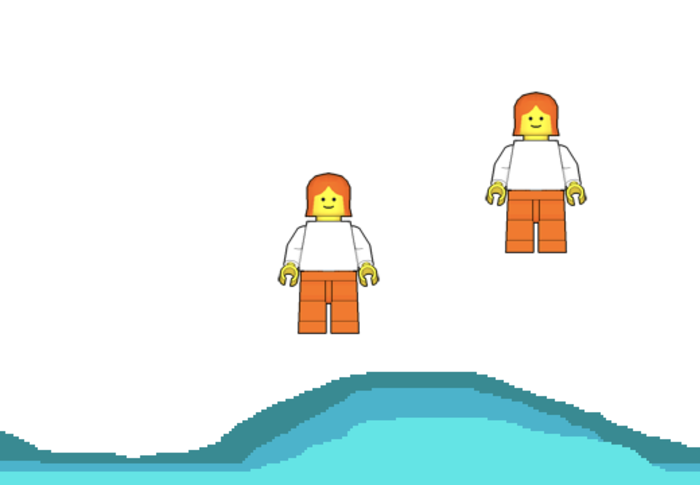
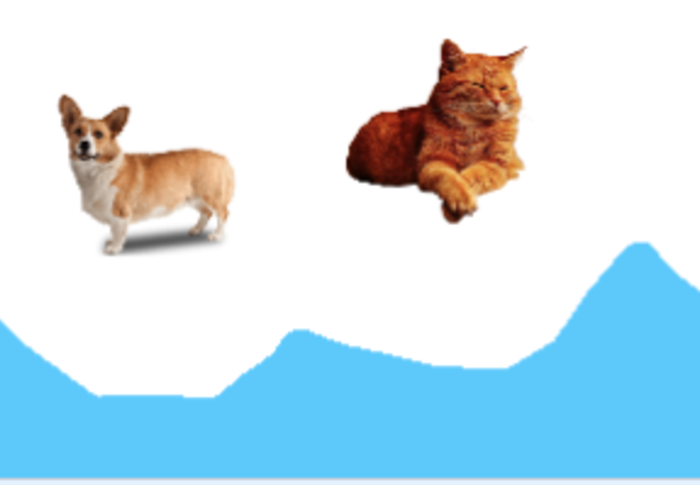
new starter projects

diff --git a/projects/saveFallingPeople.html b/projects/saveFallingPeople.html
@@ -1,8 +1,8 @@
 ---
 layout: default
-title: Save the Falling People
-data_name: saveFallingPeople
-permalink: /projects/saveFallingPeople
+title: It's Raining Cats and Dogs!
+data_name: saveFalling
+permalink: /projects/saveFalling
 ---
 
 {% include projects.html %}
